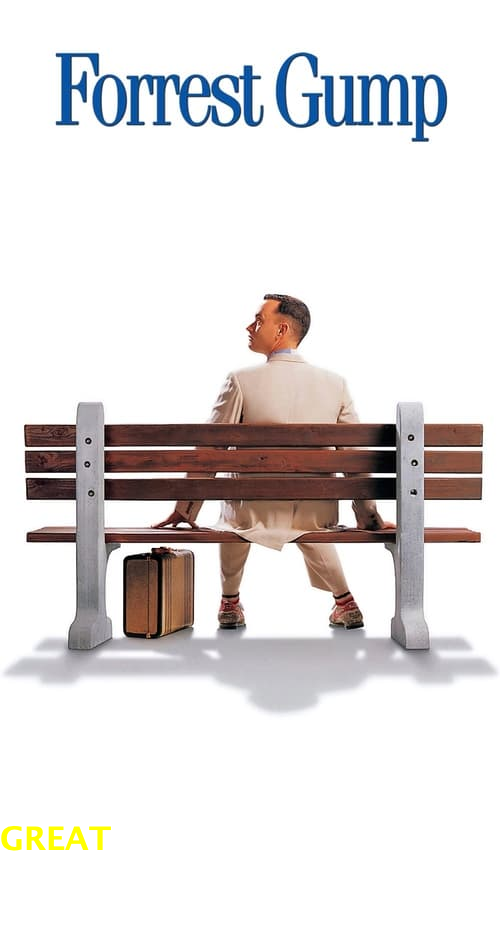
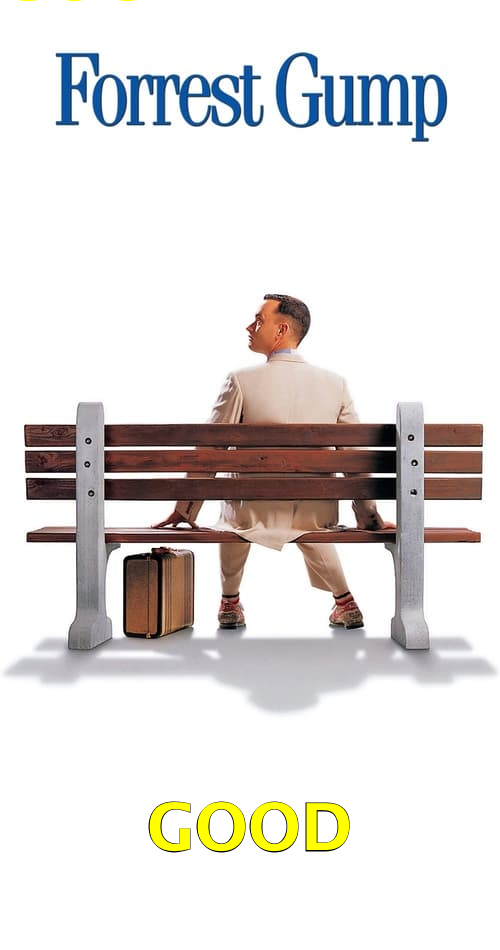
feat: enhance StickersGenerator to include comments based on movie ratings and improve text rendering

Changed region(s): [[0.3, 0.8242, 0.72, 0.9158], [0.0, 0.8547, 0.21, 0.9158]]

diff --git a/src/StickersGenerator.java b/src/StickersGenerator.java
@@ -1,14 +1,15 @@
 import javax.imageio.ImageIO;
 import java.awt.*;
+import java.awt.font.FontRenderContext;
+import java.awt.font.TextLayout;
+import java.awt.geom.AffineTransform;
 import java.awt.image.BufferedImage;
 import java.io.File;
-import java.io.FileInputStream;
 import java.io.IOException;
 import java.io.InputStream;
-import java.net.URL;
 
 public class StickersGenerator {
-    public  void create(InputStream inputStream, String movieTitle) throws IOException {
+    public void create(InputStream inputStream, String movieTitle, String text) throws IOException {
         BufferedImage image = ImageIO.read(inputStream);
 
         int width = image.getWidth();
@@ -21,12 +22,40 @@ public class StickersGenerator {
         Graphics2D graphics = (Graphics2D) newBufferedImage.getGraphics();
         graphics.drawImage(image, 0, 0, null);
 
-        Font font = new Font(Font.SANS_SERIF, Font.BOLD, 32);
+        Font font = new Font(Font.SANS_SERIF, Font.BOLD, 64);
         graphics.setFont(font);
+        graphics.setRenderingHint(RenderingHints.KEY_ANTIALIASING, RenderingHints.VALUE_ANTIALIAS_ON);
+
+        FontMetrics fontMetrics = graphics.getFontMetrics(font);
+        int stringWidth = fontMetrics.stringWidth(text);
+        int textX = (width - stringWidth) / 2;
+        int textY = newHeight - 100;
+
+        FontRenderContext frc = graphics.getFontRenderContext();
+        TextLayout textLayout = new TextLayout(text, font, frc);
+        Shape outline = textLayout.getOutline(null);
+
+        AffineTransform transform = AffineTransform.getTranslateInstance(textX, textY);
+        Shape transformedOutline = transform.createTransformedShape(outline);
+
+        graphics.setColor(Color.BLACK);
+        graphics.setStroke(new BasicStroke(2));
+        graphics.draw(transformedOutline);
+
         graphics.setColor(Color.YELLOW);
+        graphics.fill(outline);
 
-        graphics.drawString("GREAT", 0, newHeight - 100);
 
-        ImageIO.write(newBufferedImage, "png", new File("src/stickers/" + movieTitle + ".png"));
+        graphics.drawString(text, (width - stringWidth) / 2, newHeight - 100);
+
+        File dir = new File("src/stickers/");
+
+        if (!dir.exists()) {
+            dir.mkdir();
+        }
+
+        File path = new File(dir, movieTitle + ".png");
+
+        ImageIO.write(newBufferedImage, "png", path);
     }
 }

diff --git a/src/App.java b/src/App.java
@@ -15,7 +15,7 @@ public class App {
 
         HttpClient client = HttpClient.newHttpClient();
 
-        String apiToken= EnvLoader.get("API_TOKEN");
+        String apiToken = EnvLoader.get("API_TOKEN");
 
         HttpRequest request = HttpRequest.newBuilder(uri)
                 .GET()
@@ -38,8 +38,22 @@ public class App {
             String starEmoji = "⭐";
             int stars = (int) Math.round(Double.parseDouble(rating));
 
+            String comment = "";
+
+            if (stars <= 10 && stars > 8) {
+                comment = "GREAT";
+            } else if (stars <= 8 && stars > 6) {
+                comment = "GOOD";
+            } else if (stars <= 6 && stars > 4) {
+                comment = "REGULAR";
+            } else if (stars <= 4 && stars > 2) {
+                comment = "BAD";
+            } else if (stars <= 2 && stars > 0) {
+                comment = "AWFUL";
+            }
+
             InputStream image = new URL(posterUrl).openStream();
-            generator.create(image, title);
+            generator.create(image, title, comment);
 
             System.out.println("\u001b[34mTitle: " + title);
             System.out.println("Poster Image URL: " + posterUrl);

diff --git a/src/JsonParser.java b/src/JsonParser.java
@@ -13,8 +13,10 @@ public class JsonParser {
     }
 
     public List<Map<String, Object>> parse(String json) throws IOException {
-        Map<String, Object> parsedJson = objectMapper.readValue(json, new TypeReference<>() {});
+        Map<String, Object> parsedJson = objectMapper.readValue(json, new TypeReference<>() {
+        });
         Object results = parsedJson.get("results");
-        return objectMapper.convertValue(results, new TypeReference<>() {});
+        return objectMapper.convertValue(results, new TypeReference<>() {
+        });
     }
 }
